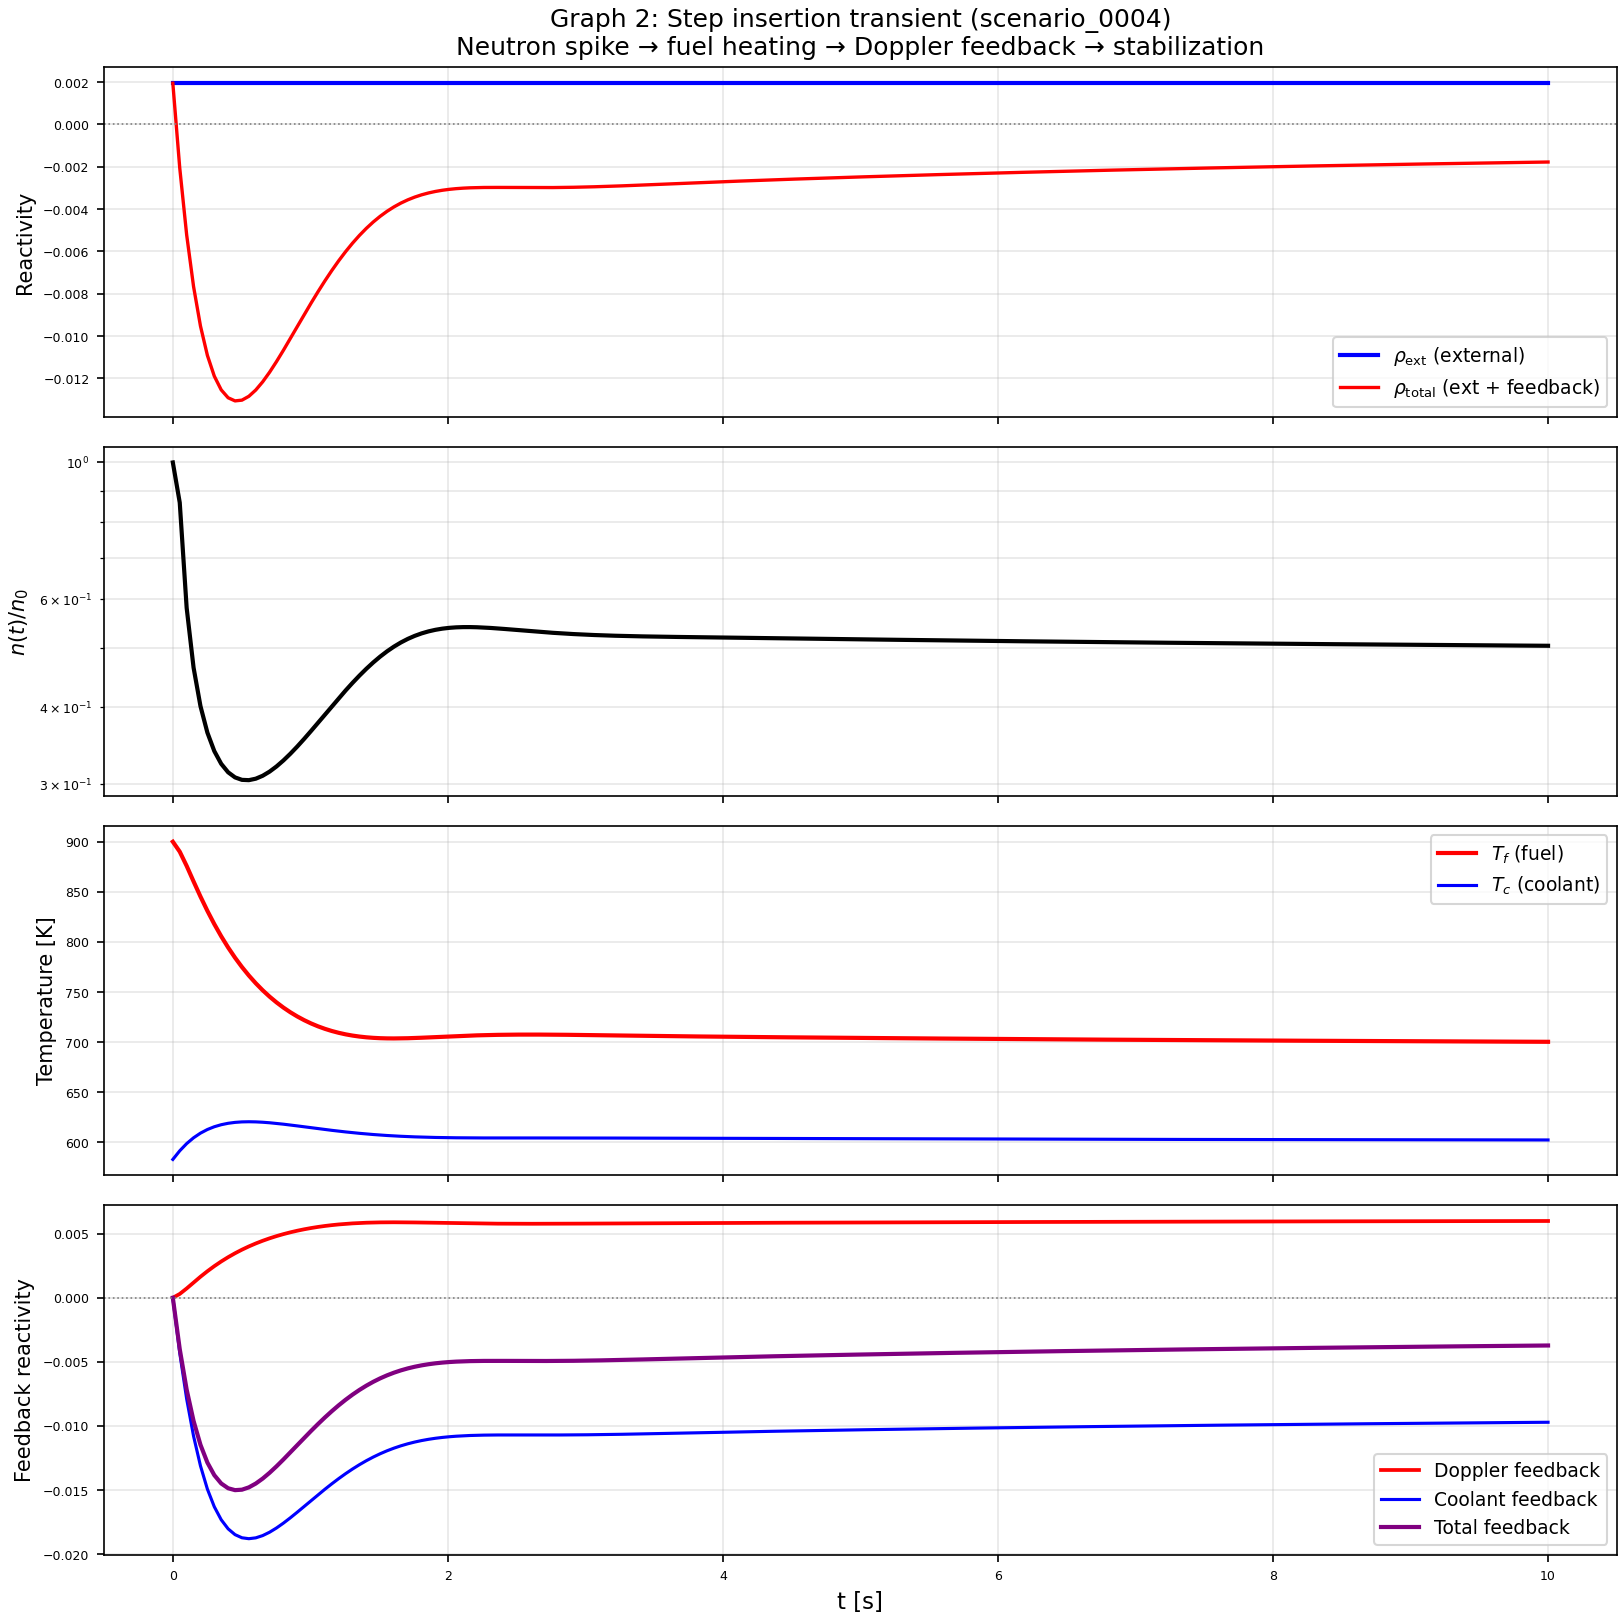
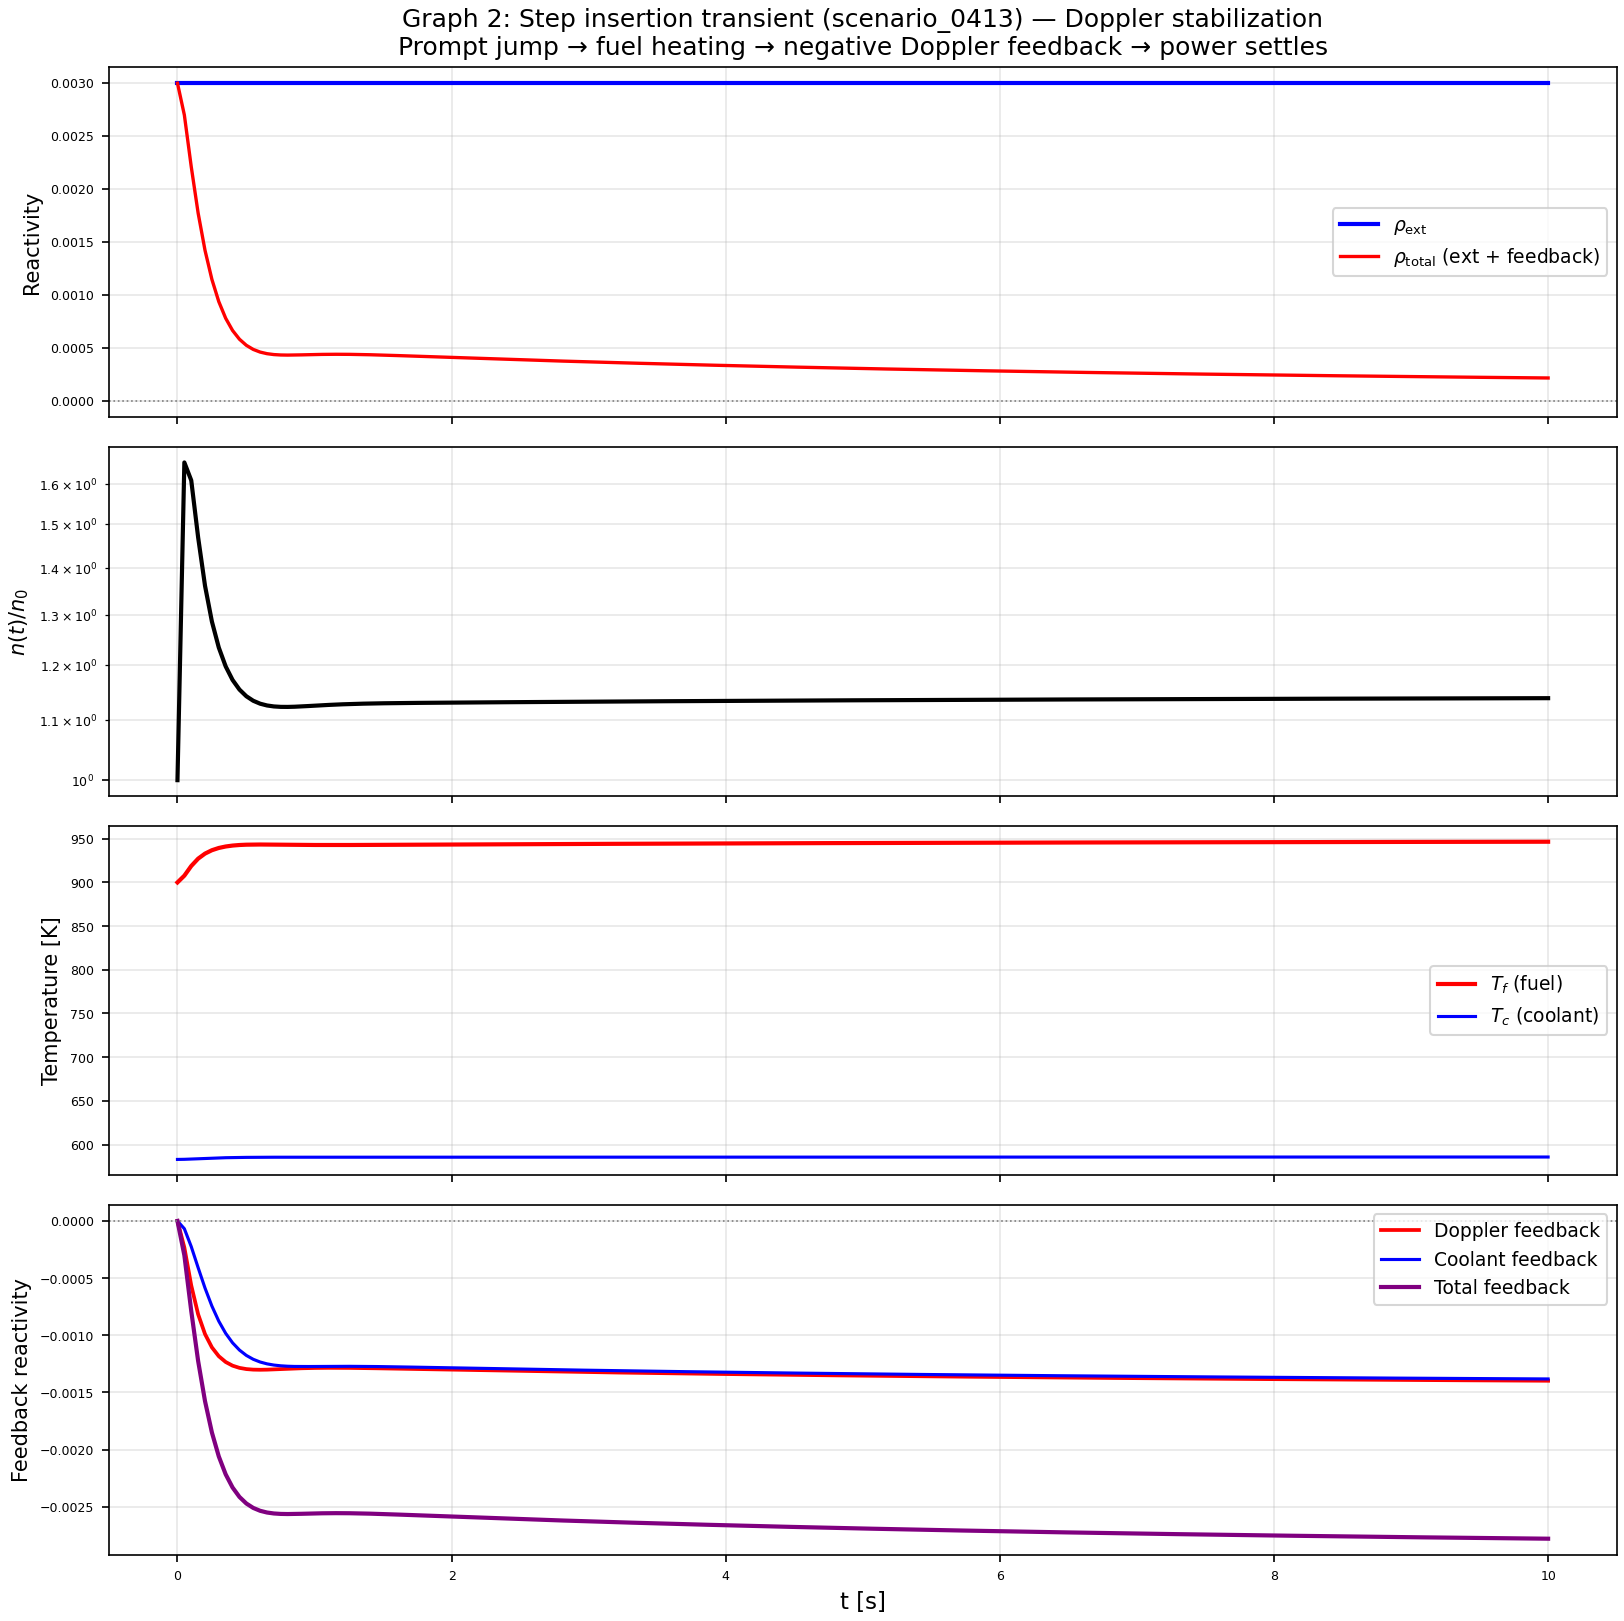
Fix Graph 2: regenerate with v4 physics — shows actual prompt jump + Doppler stabilization (was pre-v4 broken trajectory)

diff --git a/results/phase_1/phase_1_completion_report_v2.md b/results/phase_1/phase_1_completion_report_v2.md
@@ -236,7 +236,7 @@ All forcing profiles stored separately from trajectories (`forcing.npy` per scen
 
 **File:** `results/phase_1/reviewer_figures/graph_2_step_transient_multi_axis.png`
 
-**Contents:** Four-panel multi-axis plot for a positive step insertion scenario (`scenario_XXXX`, amplitude ~0.3 β_eff):
+**Contents:** Four-panel multi-axis plot for a positive step insertion scenario (regenerated with v4 physics) (`scenario_XXXX`, amplitude ~0.3 β_eff):
 
 - **Panel 1:** External reactivity $\rho_{\text{ext}}(t)$ (step at $t=0$) and total reactivity $\rho_{\text{total}}(t)$ (step + thermal feedback)
 - **Panel 2:** Neutron density $n(t)/n_0$ on log scale — showing the **prompt spike** followed by stabilization
